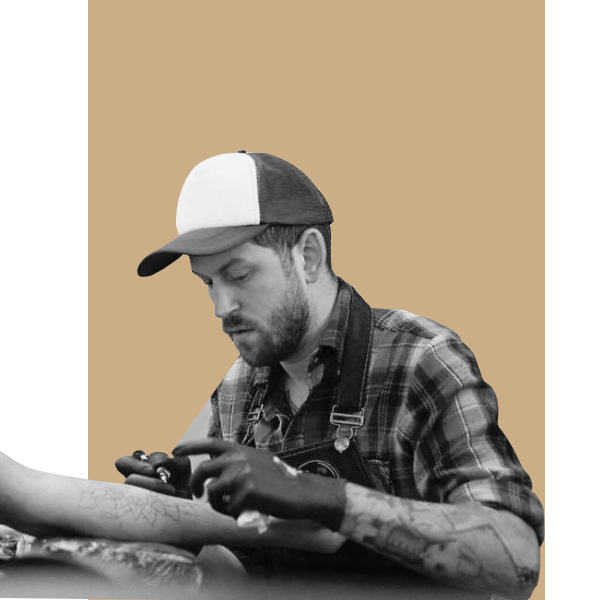
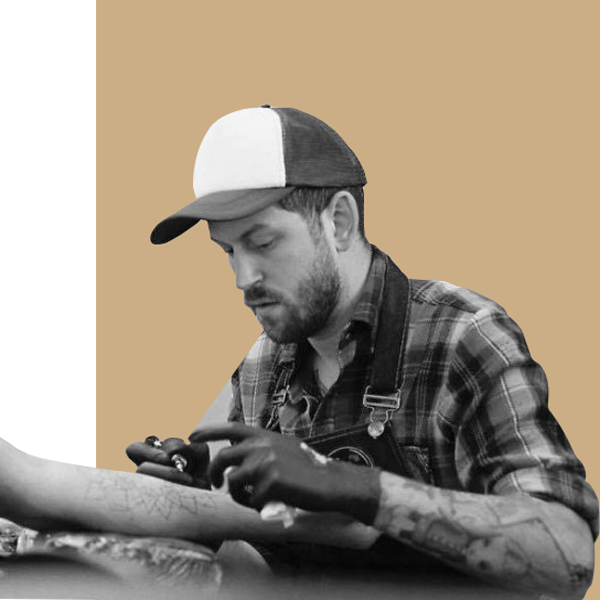
Mobile Complete

diff --git a/css/style.css b/css/style.css
@@ -97,48 +97,69 @@ p {
   text-align: right; }
 
 .craigylee-section {
-  border: solid 1px white;
+  border: solid 1px #121212;
   width: 90%;
-  height: 500px;
-  margin-left: 5%; }
+  height: 485px;
+  margin-left: 5%;
+  position: relative;
+  text-align: center; }
 
 .sholtocarr-section {
-  border: solid 1px white;
+  border: solid 1px #121212;
   width: 90%;
-  height: 500px;
+  height: 485px;
   margin-left: 5%; }
 
 .stephmaree-section {
-  border: solid 1px white;
+  border: solid 1px #121212;
   width: 90%;
-  height: 500px;
+  height: 485px;
   margin-left: 5%; }
 
 .zoeemily-section {
-  border: solid 1px white;
+  border: solid 1px #121212;
   width: 90%;
-  height: 500px;
+  height: 485px;
   margin-left: 5%; }
 
 .artist-desc {
   display: none; }
 
 .artists-img-1 {
-  width: 70%;
-  left: 30%;
+  width: 77%;
+  left: 23%;
   position: absolute; }
 
 .artists-img-2 {
   width: 70%;
   position: absolute; }
 
+.artists-img-3 {
+  width: 70%;
+  left: 25%;
+  position: absolute; }
+
 .artists-h1 {
   text-align: right;
-  z-index: 2; }
+  z-index: 2;
+  position: absolute;
+  margin-left: 300px;
+  text-transform: uppercase;
+  font-size: 38px;
+  color: black; }
 
 .artists-h2 {
   text-align: left;
-  z-index: 2; }
+  z-index: 2;
+  position: absolute;
+  margin-left: 10px;
+  text-transform: uppercase;
+  font-size: 38px;
+  color: black; }
+
+.artist-btn {
+  margin: 370px auto 10px auto;
+  color: black; }
 
 .booking-img {
   display: none; }
@@ -193,18 +214,31 @@ p {
   font-size: 15px;
   font-weight: bold;
   text-transform: uppercase;
-  color: white;
-  display: block;
-  margin: 0 auto 30px auto; }
+  display: block; }
 
-.artist-btn {
-  margin-top: 360px; }
+.form-submit {
+  color: white;
+  margin: 10px auto 30px auto; }
 
 .contact-img-1 {
   display: none; }
 
 .contact-para {
   margin-bottom: 0px; }
+
+.contact-social-text {
+  display: inline-block; }
+
+.fab {
+  position: relative;
+  display: inline-block;
+  left: 40px;
+  color: #cbae86;
+  font-size: 30px;
+  margin-right: 10px; }
+
+.contact--opentime--para {
+  margin: 0 40px 5px 40px; }
 
 footer {
   color: #333;

diff --git a/sass/style.scss b/sass/style.scss
@@ -129,30 +129,32 @@ p {
 // artists classes
 
 .craigylee-section {
-  border: solid 1px white;
+  border: solid 1px #121212;
   width: 90%;
-  height: 500px;
+  height: 485px;
   margin-left: 5%;
+  position: relative;
+  text-align: center;
 }
 
 .sholtocarr-section {
-  border: solid 1px white;
+  border: solid 1px #121212;
   width: 90%;
-  height: 500px;
+  height: 485px;
   margin-left: 5%;
 }
 
 .stephmaree-section {
-  border: solid 1px white;
+  border: solid 1px #121212;
   width: 90%;
-  height: 500px;
+  height: 485px;
   margin-left: 5%;
 }
 
 .zoeemily-section {
-  border: solid 1px white;
+  border: solid 1px #121212;
   width: 90%;
-  height: 500px;
+  height: 485px;
   margin-left: 5%;
 }
 
@@ -161,8 +163,8 @@ p {
 }
 
 .artists-img-1 {
-  width: 70%;
-  left: 30%;
+  width: 77%;
+  left: 23%;
   position: absolute;
 }
 
@@ -171,14 +173,37 @@ p {
   position: absolute;
 }
 
+.artists-img-3 {
+  width: 70%;
+  left: 25%;
+  position: absolute;
+}
+
 .artists-h1{
   text-align: right;
   z-index: 2;
+  position: absolute;
+  margin-left: 300px;
+  text-transform: uppercase;
+  font-size: 38px;
+  color: black;
 }
 
 .artists-h2 {
   text-align: left;
   z-index: 2;
+  position: absolute;
+  margin-left: 10px;
+  text-transform: uppercase;
+  font-size: 38px;
+  color: black;
+}
+
+.artist-btn {
+  // margin-top: 360px;
+  // margin-bottom: 10px;
+  margin:  370px auto 10px auto;
+  color: black;
 }
 
 // booking classes
@@ -244,13 +269,13 @@ p {
   font-size: 15px;
   font-weight: bold;
   text-transform: uppercase;
-  color: white;
   display: block;
-  margin:  0 auto 30px auto;
+  // margin:  370px auto 30px auto;
 }
 
-.artist-btn {
-  margin-top: 360px;
+.form-submit {
+  color: white;
+  margin:  10px auto 30px auto;
 }
 
 // contact classes
@@ -261,6 +286,23 @@ p {
 
 .contact-para {
   margin-bottom: 0px;
+}
+
+.contact-social-text {
+  display: inline-block;
+}
+
+.fab {
+  position: relative;
+  display: inline-block;
+  left: 40px;
+  color: #cbae86;
+  font-size: 30px;
+  margin-right: 10px;
+}
+
+.contact--opentime--para {
+  margin: 0 40px 5px 40px;
 }
 
 // footer

diff --git a/artists.html b/artists.html
@@ -29,28 +29,29 @@
     <h1>Artists</h1>
 
     <div class="craigylee-section">
-      <h2 class="artists-h1">Craigy Lee</h2>
+      <h2 class="artists-h1">Craigy<br>Lee</h2>
       <p class="artist-desc">Craigy Lee is a world-renowned tattoo artist from London, England. He visited Wellington for a guest spot in 2011 and then again in 2012, he loved Wellington so much the second time he never left!</p>
       <img class="artists-img-1" src="images/Craigy.png" alt="Craigy Lee">
       <button type="button" class="btn artist-btn" name="button">View More</button>
     </div>
 
+
     <div class="sholtocarr-section">
-      <h2 class="artists-h2">Sholto Carr</h2>
+      <h2 class="artists-h2">Sholto <br> Carr</h2>
       <p class="artist-desc">Sholto has been making his mark in Wellington with his own take on Japanese tattoo designs for the past few years.</p>
       <img class="artists-img-2" src="images/Sholto.png" alt="Sholto Carr">
       <button type="button" class="btn artist-btn" name="button">View More</button>
     </div>
 
     <div class="stephmaree-section">
-      <h2 class="artists-h1">Steph Maree</h2>
+      <h2 class="artists-h1">Steph<br>Maree</h2>
       <p class="artist-desc">Steph has only been tattooing for a couple of years, but has already gained a loyal and growing customer base for her quirky offbeat designs.</p>
-      <img class="artists-img-1" src="images/Steph.png" alt="Steph Maree">
+      <img class="artists-img-3" src="images/Steph.png" alt="Steph Maree">
       <button type="button" class="btn artist-btn" name="button">View More</button>
     </div>
 
     <div class="zoeemily-section">
-      <h2 class="artists-h2">Zoe Emily</h2>
+      <h2 class="artists-h2">Zoe <br> Emily</h2>
       <p class="artist-desc">Zoe started her tattoo journey almost by accident when she landed a reception job at a local tattoo studio while she was studying fine art.</p>
       <img class="artists-img-2" src="images/Emily.png" alt="Zoe Emily">
       <button type="button" class="btn artist-btn" name="button">View More</button>

diff --git a/contact.html b/contact.html
@@ -32,20 +32,21 @@
       <h1>Reach out to us</h1>
       <p class="contact-para">Call us on: 04 384 8071</p>
       <p class="contact-para">Email us: info@uniontatoo.co.nz</p>
-      <p class="contact-para">>311 Willis St, Wellington</p>
+      <p class="contact-para">311 Willis St, Wellington</p>
       <br>
     </div>
 
     <div class="contact-socials">
       <i class="fab fa-instagram"></i>
-      <p class="contact-social-text">instagram.com/unionmade</p>
+      <p class="contact-social-text">@unionmade</p>
+      <br>
       <i class="fab fa-facebook-square"></i>
-      <p class="contact-social-text">facebook.com/uniontattoonz</p>
+      <p class="contact-social-text">@uniontattoonz</p>
     </div>
 
     <div class="contact-opentime">
-      <p>Monday - Friday: 10.30 - 18.00</p>
-      <p>Weekends: 11.00 - 16.00</p>
+      <p class="contact--opentime--para">Monday - Friday: 10.30 - 18.00</p>
+      <p class="contact--opentime--para">Weekends: 11.00 - 16.00</p>
     </div>
 
 
